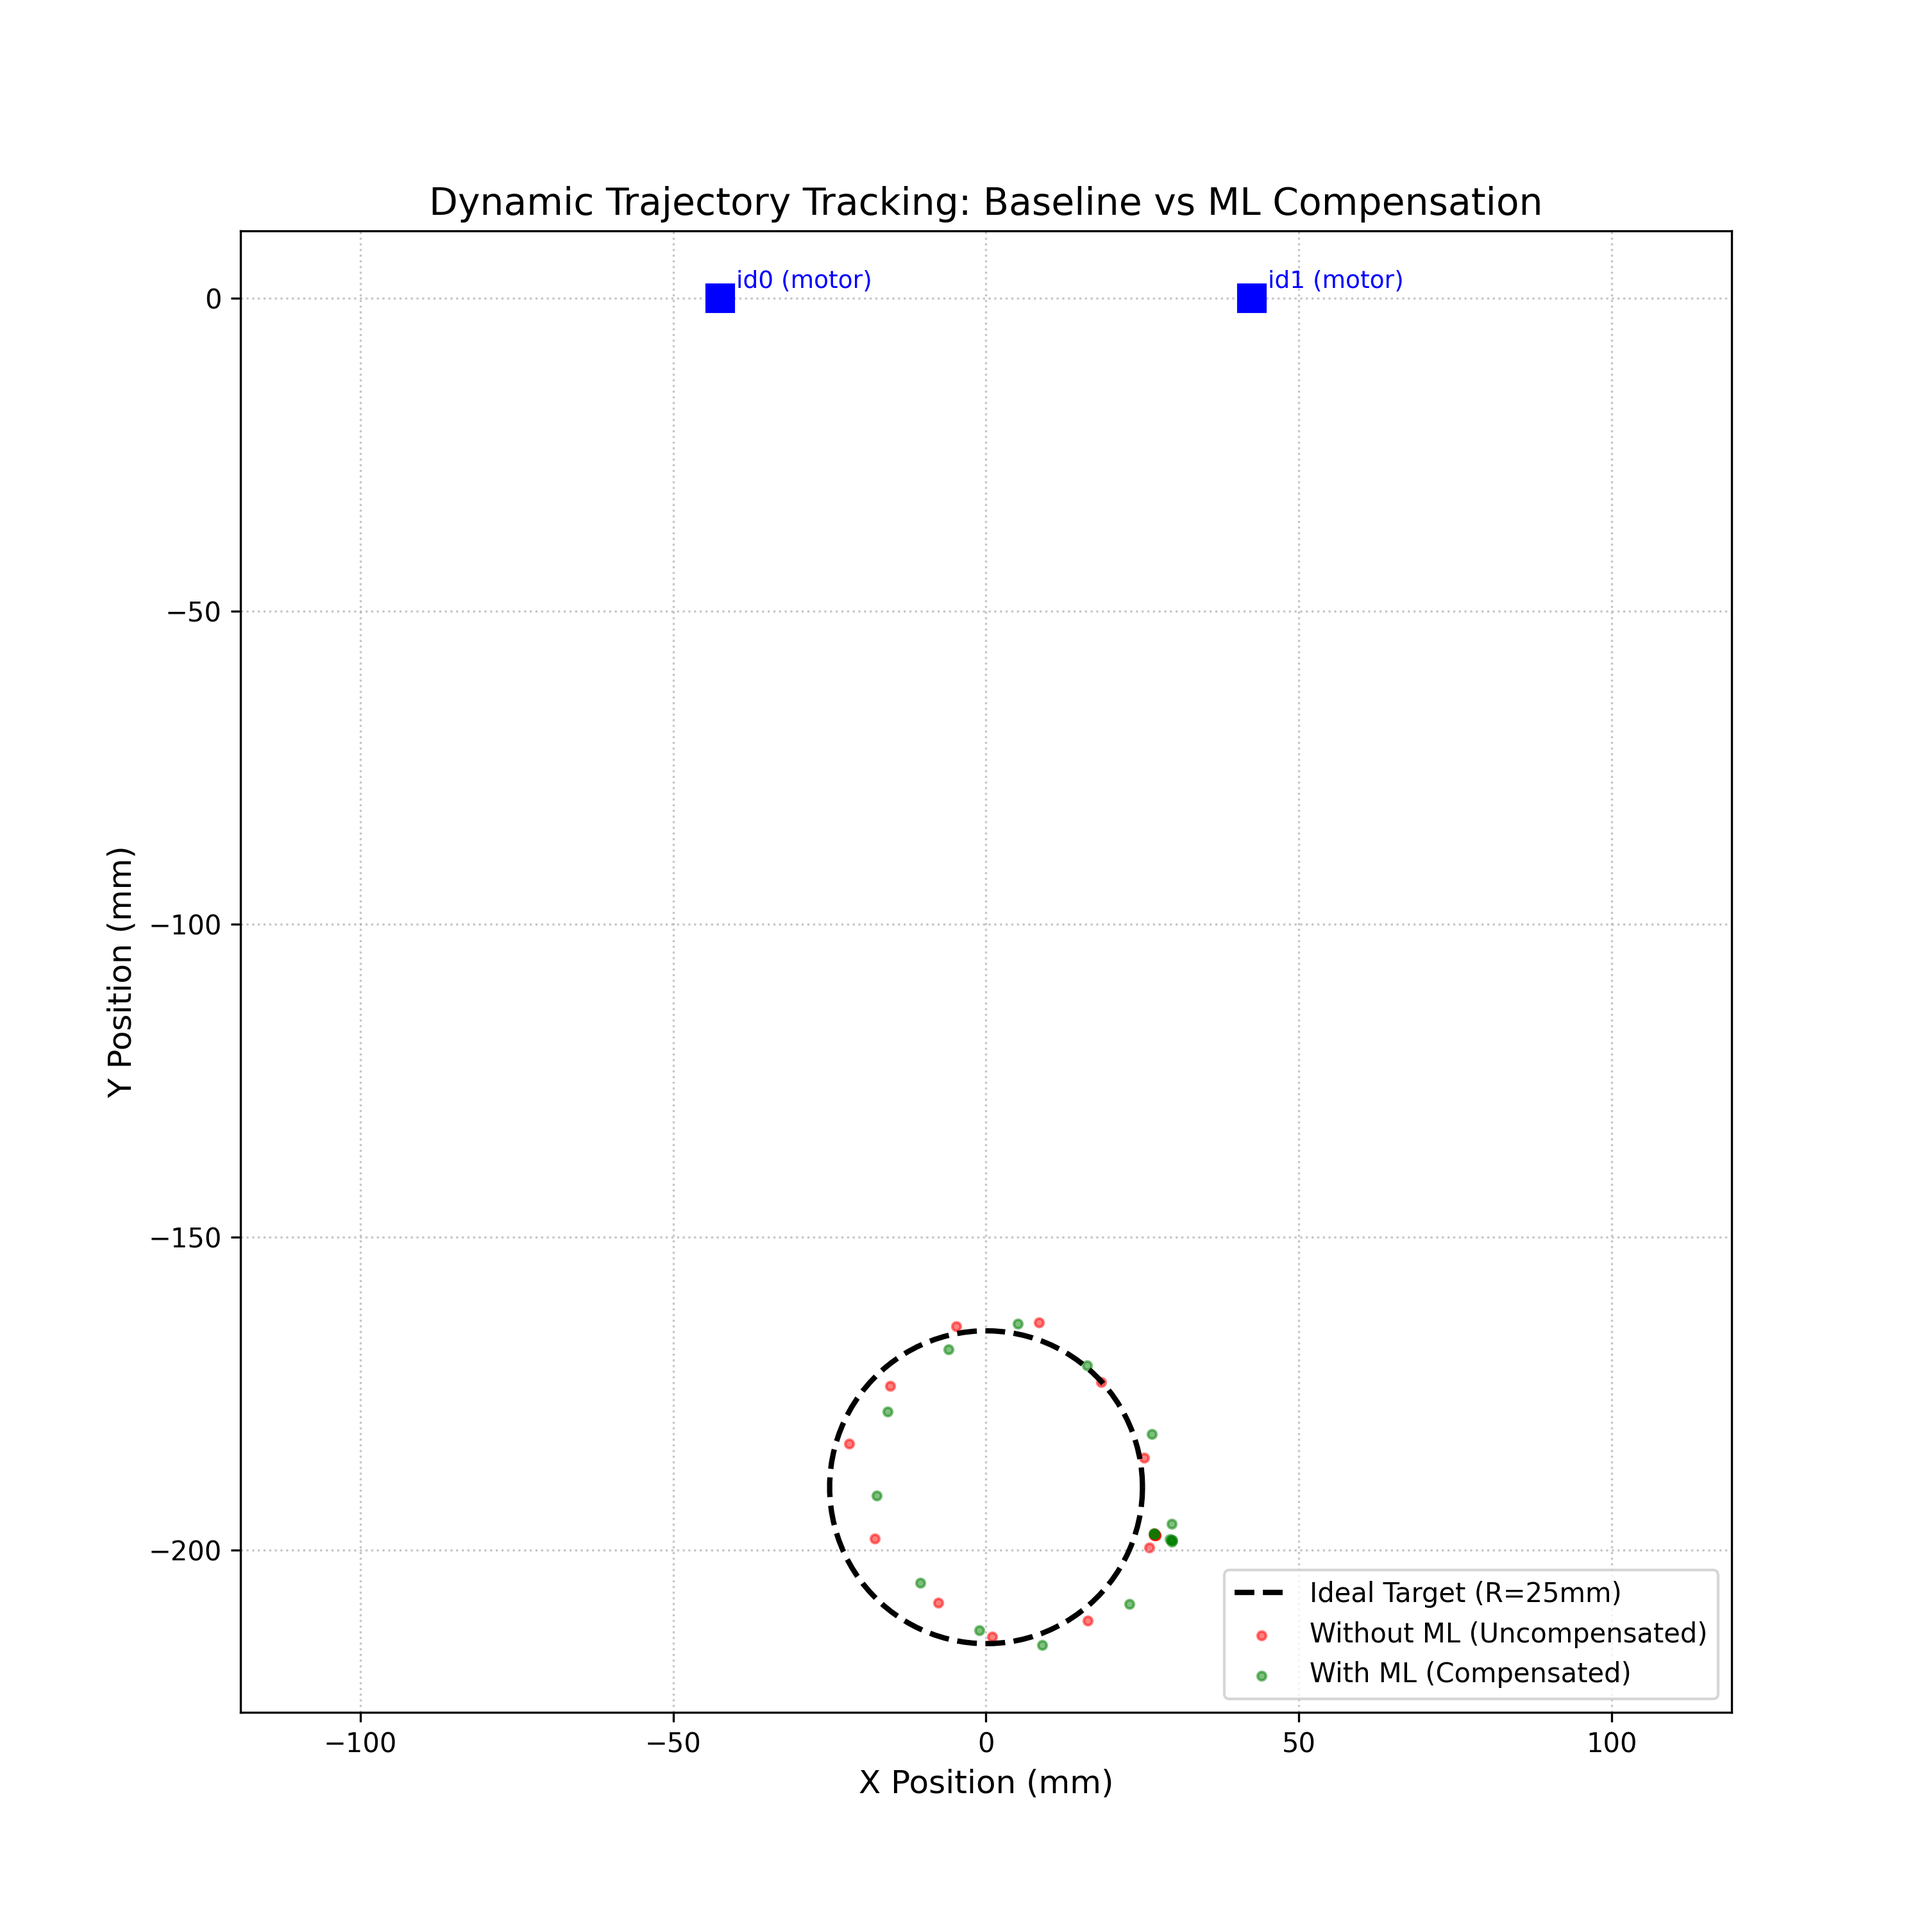
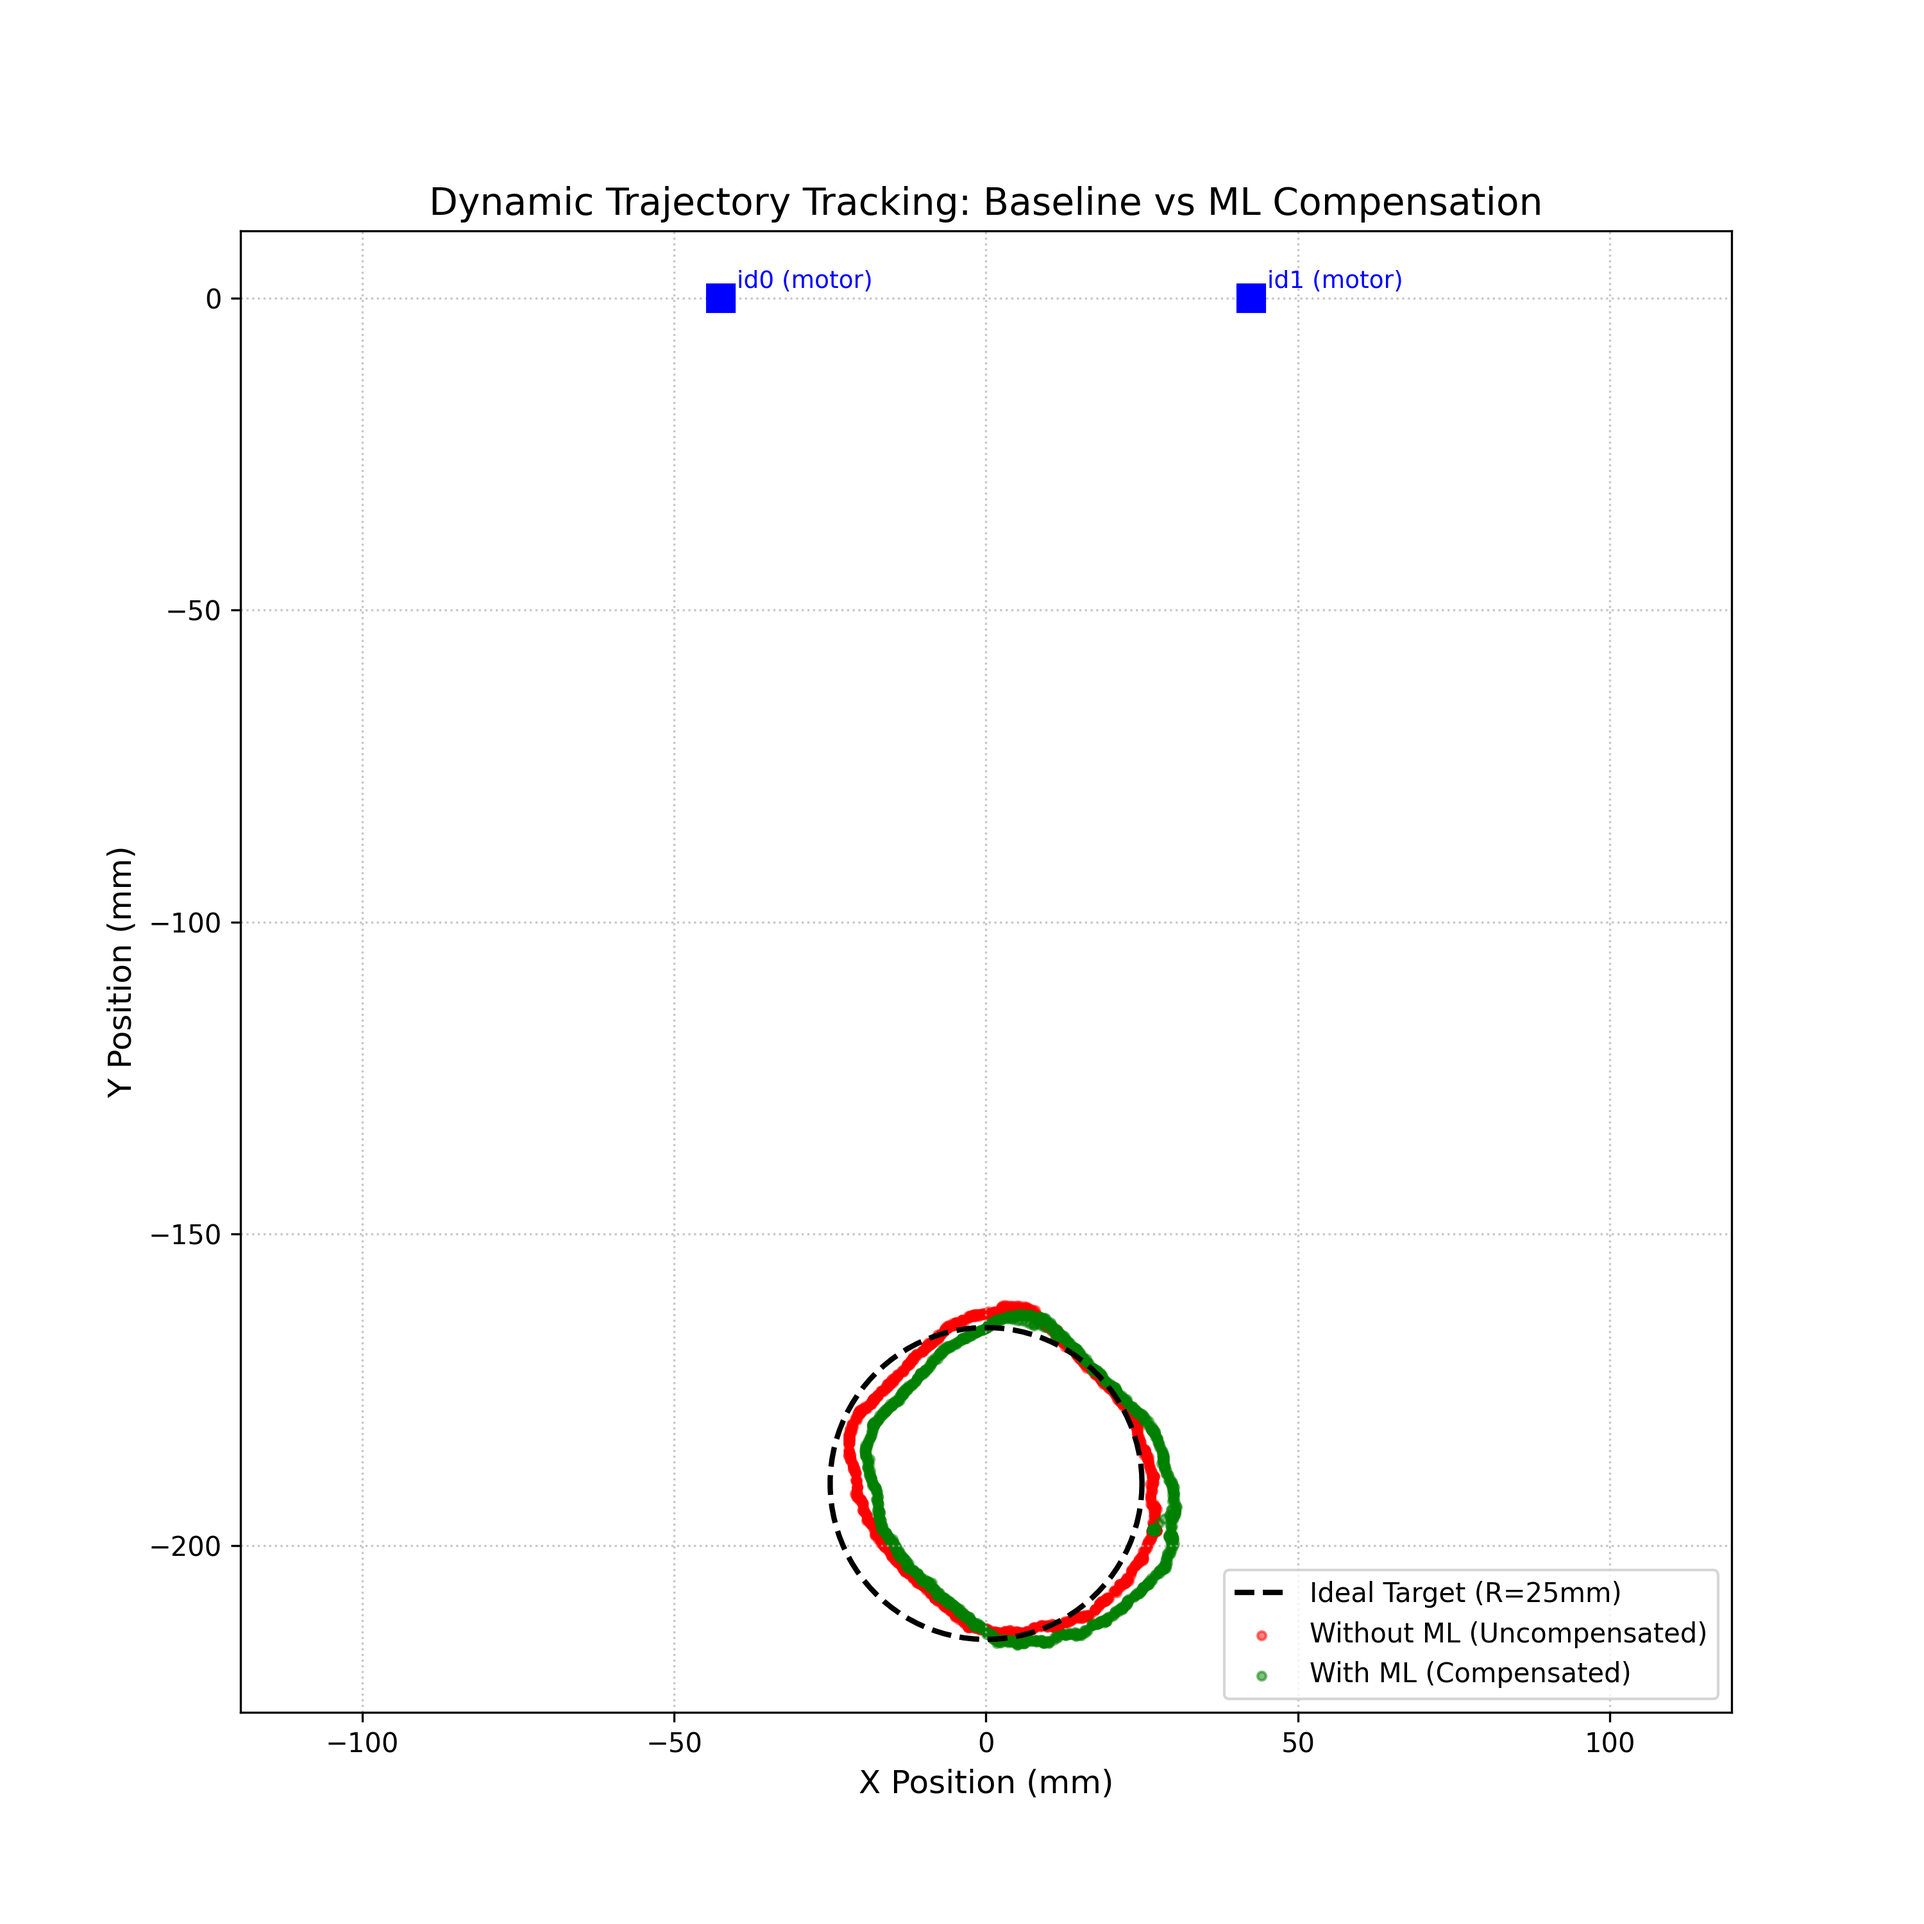
Update FRAME_STEP to process every frame and enhance error reporting metrics in trajectory evaluation

Changed region(s): [[0.434, 0.682, 0.62, 0.868], [0.186, 0.899, 0.217, 0.93], [0.093, 0.62, 0.124, 0.651]]

diff --git a/python/paper_testing/test_2/vision_based_trajectory_eval.py b/python/paper_testing/test_2/vision_based_trajectory_eval.py
@@ -21,7 +21,7 @@ REF_WORLD = {
 }
 REF_DIST_MM = np.linalg.norm(REF_WORLD[1] - REF_WORLD[0])  # = 85.0 mm
 
-FRAME_STEP  = 100      # ประมวลผลทุก N เฟรม (1 = ทุกเฟรม, 3 = ข้าม 2)
+FRAME_STEP  = 1      # ประมวลผลทุก N เฟรม (1 = ทุกเฟรม, 3 = ข้าม 2)
 
 CENTER_X_MM = 0.0       # จุดศูนย์กลางวงโคจรอุดมคติ แกน X
 CENTER_Y_MM = -190.0    # จุดศูนย์กลางวงโคจรอุดมคติ แกน Y
@@ -150,9 +150,22 @@ mm_comp_y   = data_comp[:, 1]
 # สรุป RMS error เทียบกับวงโคจรอุดมคติ
 err_uncomp = np.sqrt((mm_uncomp_x - CENTER_X_MM)**2 + (mm_uncomp_y - CENTER_Y_MM)**2) - RADIUS_MM
 err_comp   = np.sqrt((mm_comp_x   - CENTER_X_MM)**2 + (mm_comp_y   - CENTER_Y_MM)**2) - RADIUS_MM
-print(f"\nRMS radial error:")
-print(f"  Uncompensated : {np.sqrt(np.mean(err_uncomp**2)):.3f} mm")
-print(f"  ML Compensated: {np.sqrt(np.mean(err_comp**2)):.3f} mm")
+rms_u  = np.sqrt(np.mean(err_uncomp**2))
+rms_c  = np.sqrt(np.mean(err_comp**2))
+mean_u = np.mean(err_uncomp)
+mean_c = np.mean(err_comp)
+std_u  = np.std(err_uncomp)
+std_c  = np.std(err_comp)
+max_u  = np.max(np.abs(err_uncomp))
+max_c  = np.max(np.abs(err_comp))
+
+print(f"\n{'Metric':<18} {'Uncompensated':>16} {'ML Compensated':>16}")
+print("-" * 52)
+print(f"{'Mean error':<18} {mean_u:>14.3f} mm {mean_c:>14.3f} mm")
+print(f"{'Std dev':<18} {std_u:>14.3f} mm {std_c:>14.3f} mm")
+print(f"{'RMS error':<18} {rms_u:>14.3f} mm {rms_c:>14.3f} mm")
+print(f"{'Max  error':<18} {max_u:>14.3f} mm {max_c:>14.3f} mm")
+print(f"{'Improvement':<18} {'—':>16} {(1 - rms_c/rms_u)*100:>13.1f} %")
 
 # ==========================================
 # 6. วาดกราฟวงโคจรอุดมคติ
